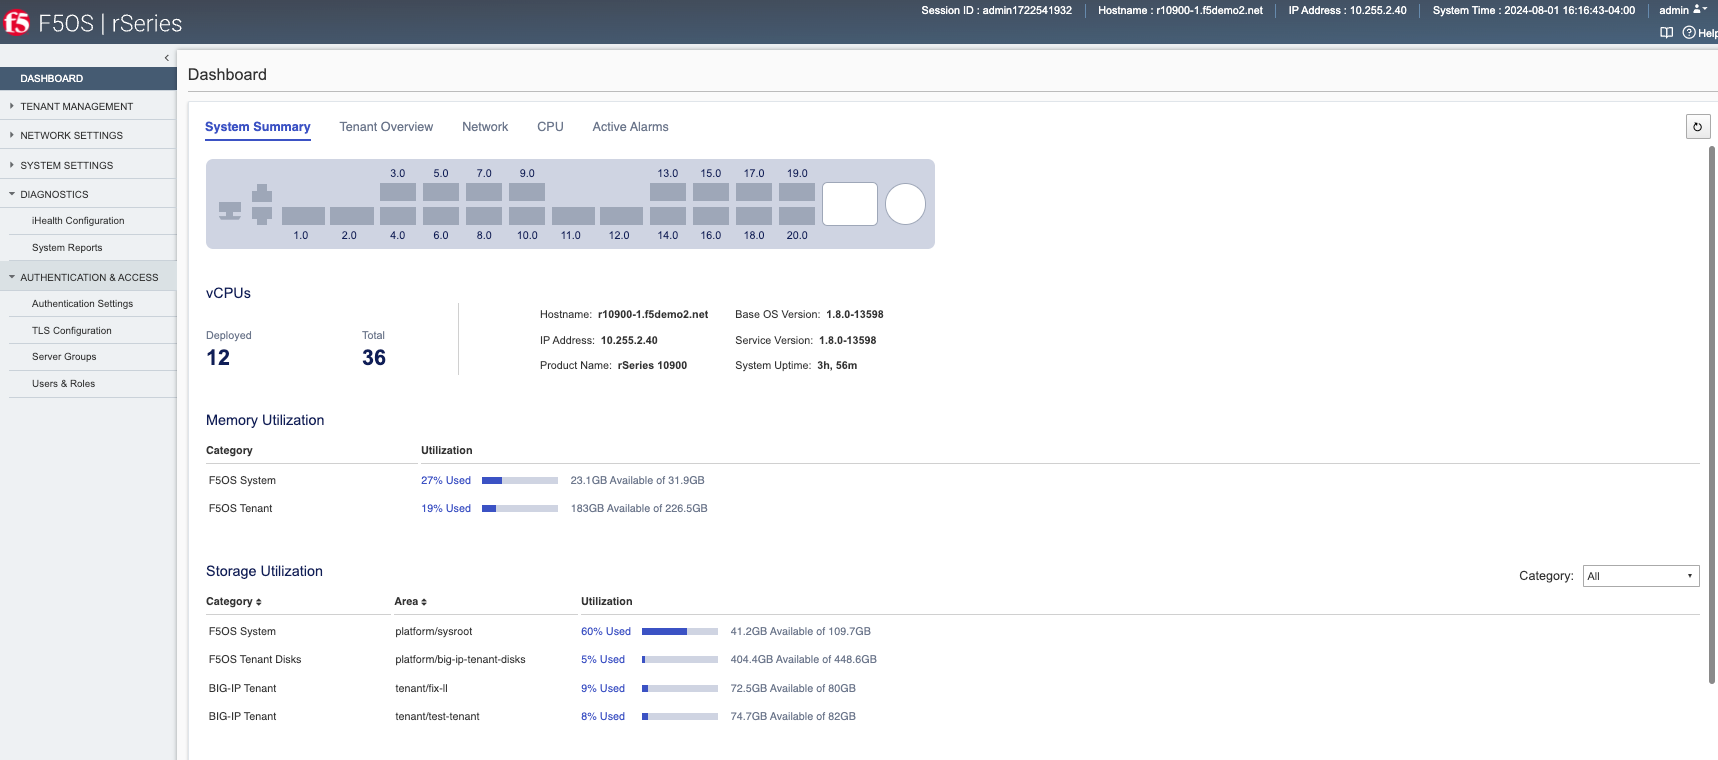
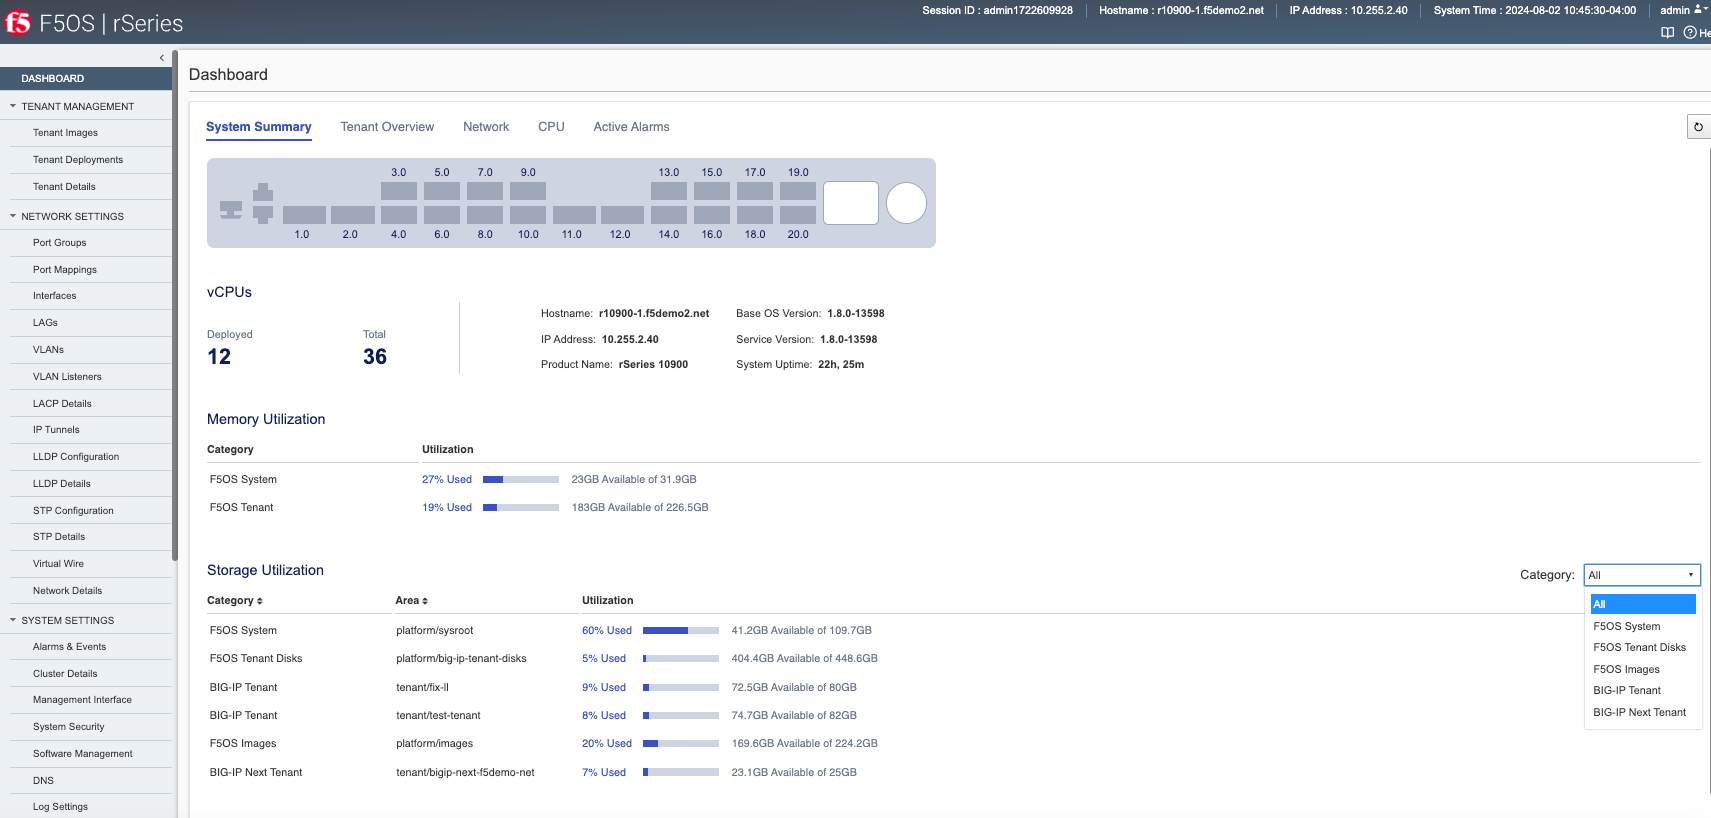
tenant

diff --git a/docs/initial_setup_of_rseries_network_layer.rst b/docs/initial_setup_of_rseries_network_layer.rst
@@ -20,7 +20,7 @@ More granular **Memory Utilization** is displayed showing how much memory is ded
   :align: center
   :scale: 70% 
 
-There is also more granularity showing **Storage Utilization**. In the below example, you can see that F5OS has utilized 60% of the 109.7GB of disk it has dedicated. You can also see that there is 448.6GB available for BIG-IP Tenant virtual disks, and that currently only 5% is used. This is the space shared by all BIG-IP Tenants virtual disks. It is important to remember that TMOS based BIG-IP virtual disks utilize thin provisioning, so the TMOS tenant may think it has more storage but in reality it is using much less capacity on the physical disk. You can see this by the **BIG-IP Tenant** utilizations. In the output below, there are two BIG-IP tenants (fix-ll & test-tenant). One has been allocated 80GB of disk while the other has been allocated 82GB of disk, however the actual size on disk is much lower (~5-7GB each).
+There is also more granularity showing **Storage Utilization**. In the below example, you can see that F5OS has utilized 60% of the 109.7GB of disk it has dedicated. You can also see that there is 448.6GB available for **F5OS Tenant Disks** (BIG-IP Tenant) virtual disks, and that currently only 5% is used. This is the space shared by all BIG-IP Tenants virtual disks. It is important to remember that TMOS based BIG-IP virtual disks utilize thin provisioning, so the TMOS tenant may think it has more storage but in reality it is using much less capacity on the physical disk. You can see this by the **BIG-IP Tenant** utilizations. In the output below, there are two BIG-IP tenants (fix-ll & test-tenant). One has been allocated 80GB of disk while the other has been allocated 82GB of disk, however the actual size on disk is much lower (~5-7GB each). Lastly, there is a single BIG-IP Next tenant that has 25GB allocated to it, but is currently utilizing 7% of that space.
 
 .. NOTE:: Storage utilization and allocation may be different on various rSeries platforms.
 
